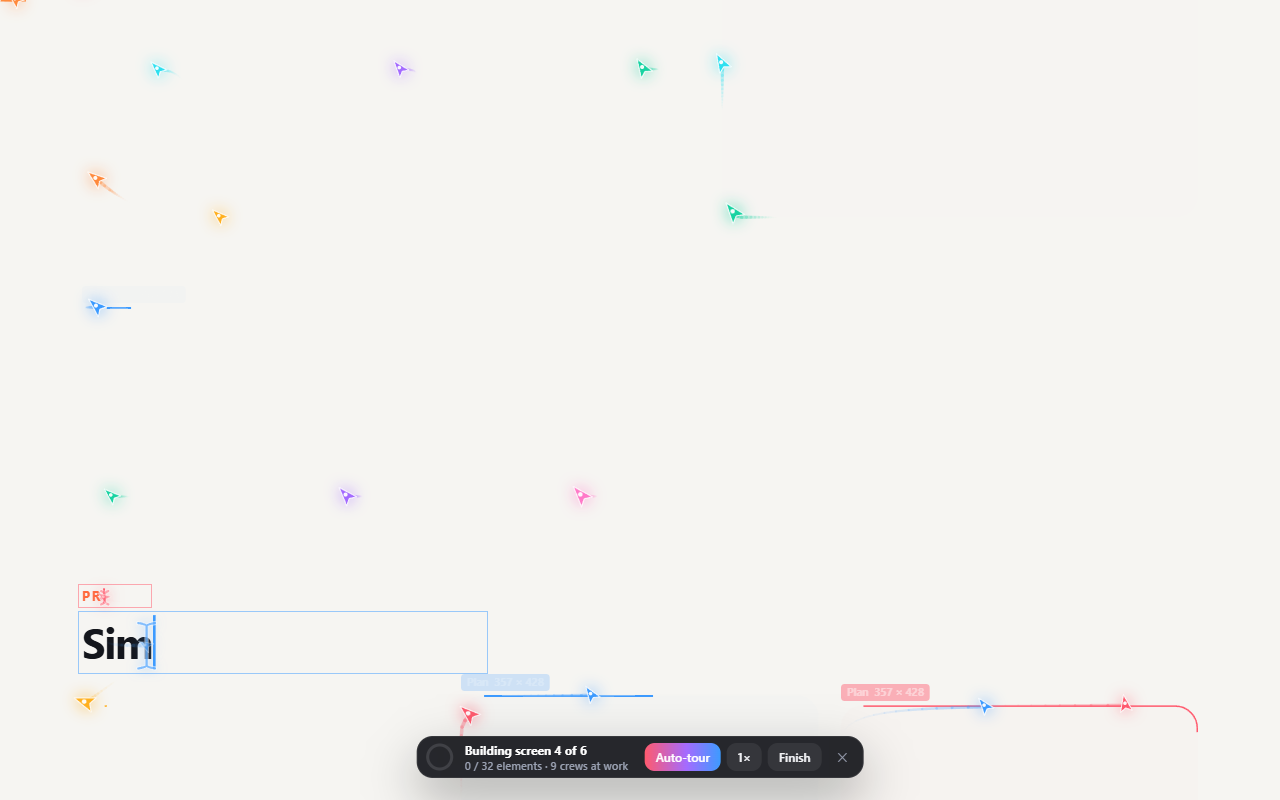
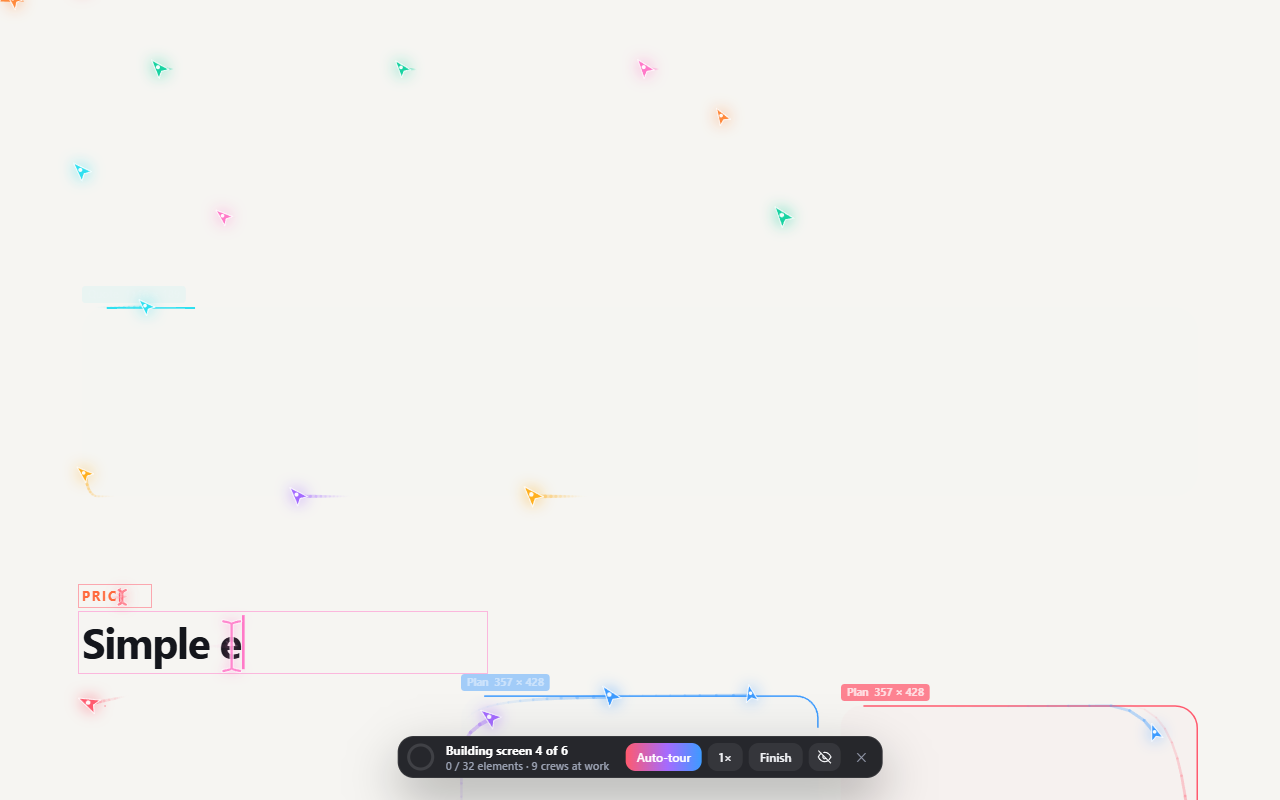
Hide or move the controls for clean recordings; fix hidden text while typing
- H (or the new eye button) hides the control bar; H brings it back. A short
  hint says so. Drag the bar anywhere; double-click it to put it back. Both
  carry over to Replay for that tab (memory only, nothing stored)
- Fix: a wrapper with a line of its own text clipped its block children while
  typing, so headings and paragraphs inside it stayed invisible
- Fix: with tight line-height, the next line's letters no longer peek through
- Docs, listing, store graphics and package updated

diff --git a/extension/swarmline.js b/extension/swarmline.js
@@ -26,6 +26,8 @@
   const SANS = 'Inter, ui-sans-serif, system-ui, -apple-system, "Segoe UI", Roboto, sans-serif';
   const MAX_UNITS = 3000;
   const CHAR_BUDGET = 9000; // exact letter positions per scan; past that they're estimated
+  // toolbar placement for this tab only: kept in memory, never stored
+  const prefs = { hudHidden: false, hudPos: null };
   const PALETTE = ["#FF5A6E", "#FFB020", "#19D3A2", "#3D9BFF", "#A46BFF", "#FF7AC8", "#2FE0F0", "#FF8A3D"];
 
   const SKIP = new Set([
@@ -409,8 +411,20 @@
                 // how to type it: clip the element to the letters so far, unless the
                 // element paints its own box (a button) - then reveal by colour
                 const mode = boxUnit && boxUnit.el === el ? "fade" : "clip";
+                // block children (a heading inside a wrapper that also has a line of its
+                // own text) stay outside the typing clip: they appear on their own schedule
+                const keep = [];
+                if (mode === "clip") {
+                  for (const c of el.children) {
+                    if (SKIP.has(c.localName)) continue;
+                    const d2 = cs(c).display;
+                    if (d2 === "none" || isInlineLevel(d2)) continue;
+                    const q = c.getBoundingClientRect();
+                    if (q.width >= 1 && q.height >= 1) keep.push({ x: q.left - r.left - 2, y: q.top - r.top - 2, w: q.width + 4, h: q.height + 4 });
+                  }
+                }
                 make(el, "text", r, s, boxUnit || parent, isFixed, {
-                  lines: t.lines, flow: t.flow, total: t.total, mode, fs: parseFloat(s.fontSize) || 16,
+                  lines: t.lines, flow: t.flow, total: t.total, mode, keep, fs: parseFloat(s.fontSize) || 16,
                   ink: s.color, caretColor: s.color,
                 });
                 madeText = true;
@@ -491,6 +505,17 @@ canvas.off{pointer-events:none}
 .hud button.pri{background:linear-gradient(90deg,#FF5A6E,#A46BFF 55%,#3D9BFF);color:#fff;font-weight:650}
 .hud button[hidden]{display:none}
 .hud .x{padding:8px 10px;color:#9CA3B4;background:transparent}
+.hud{cursor:grab;touch-action:none}
+.hud.dragging{cursor:grabbing;transition:opacity .45s ease}
+.hud.placed{bottom:auto;transform:translate(0,14px)}
+.hud.placed.on{transform:none}
+.hud.on.gone{opacity:0;pointer-events:none;transform:translate(-50%,14px)}
+.hud.placed.on.gone{transform:translate(0,14px)}
+.hud .ico{display:inline-flex;align-items:center;justify-content:center;padding:6px 8px}
+.hud .ico svg{width:16px;height:16px;fill:none;stroke:currentColor;stroke-width:1.8;stroke-linecap:round;stroke-linejoin:round}
+.toast{position:fixed;left:50%;bottom:26px;transform:translate(-50%,10px);padding:9px 14px;border-radius:12px;background:rgba(16,17,22,.86);color:#F4F5F8;font:500 12px/1.2 ${SANS};box-shadow:0 14px 36px rgba(0,0,0,.28);opacity:0;pointer-events:none;transition:opacity .35s ease,transform .35s ease;white-space:nowrap}
+.toast.on{opacity:1;transform:translate(-50%,0)}
+.toast kbd{font:650 11px/1 ${SANS};padding:3px 6px;border-radius:6px;background:rgba(255,255,255,.14);margin:0 2px}
 `;
 
   // ------------------------------------------------------------------------- app
@@ -557,8 +582,10 @@ canvas.off{pointer-events:none}
   <button data-a="speed" title="Build speed" aria-label="Build speed 1×">1×</button>
   <button data-a="finish" title="Show the finished page now (F)">Finish</button>
   <button data-a="replay" class="pri" hidden title="Build the page again">Replay</button>
+  <button data-a="hide" class="ico" title="Hide the controls for a clean recording (H) · drag the bar to move it" aria-label="Hide controls"><svg viewBox="0 0 24 24" aria-hidden="true"><path d="M3 3l18 18"/><path d="M10.6 5.1A10.5 10.5 0 0 1 12 5c6 0 9.5 7 9.5 7a17 17 0 0 1-3.2 4.1M6.6 6.6C3.9 8.4 2.5 12 2.5 12s3.5 7 9.5 7a9.6 9.6 0 0 0 5.4-1.6"/><path d="M9.9 9.9a3 3 0 0 0 4.2 4.2"/></svg></button>
   <button data-a="close" class="x" title="Exit (Esc)" aria-label="Exit Swarmline">✕</button>
-</div>`;
+</div>
+<div class="toast" role="status"></div>`;
       document.documentElement.appendChild(host);
       this.host = host;
       this.root = root;
@@ -567,7 +594,48 @@ canvas.off{pointer-events:none}
       this.hud = root.querySelector(".hud");
       this.$ = (s) => root.querySelector(s);
       this.$('[data-a="speed"]').textContent = this.speed + "×";
+      this.toast = root.querySelector(".toast");
       this.resize();
+      if (prefs.hudPos) this.placeHud(prefs.hudPos.x, prefs.hudPos.y);
+      if (prefs.hudHidden) this.hud.classList.add("gone");
+    }
+
+    // ---------------------------------------------------------------- toolbar
+
+    // hide or show the controls (H), e.g. for a clean screen recording
+    setHud(show, quiet) {
+      prefs.hudHidden = !show;
+      this.hud.classList.toggle("gone", !show);
+      if (!show && !quiet) this.say("Controls hidden · press <kbd>H</kbd> to bring them back");
+    }
+
+    say(html, ms = 2200) {
+      const t = this.toast;
+      t.innerHTML = html;
+      t.classList.add("on");
+      clearTimeout(this._toastT);
+      this._toastT = setTimeout(() => t.classList.remove("on"), ms);
+    }
+
+    // put the bar at a spot on screen (kept inside the window)
+    placeHud(x, y) {
+      const h = this.hud;
+      const w = h.offsetWidth || 560;
+      const ht = h.offsetHeight || 44;
+      const px = clamp(x, 8, Math.max(8, innerWidth - w - 8));
+      const py = clamp(y, 8, Math.max(8, innerHeight - ht - 8));
+      h.classList.add("placed");
+      h.style.left = px + "px";
+      h.style.top = py + "px";
+      prefs.hudPos = { x: px, y: py };
+    }
+
+    resetHud() {
+      const h = this.hud;
+      h.classList.remove("placed");
+      h.style.left = "";
+      h.style.top = "";
+      prefs.hudPos = null;
     }
 
     resize() {
@@ -584,7 +652,10 @@ canvas.off{pointer-events:none}
         t.addEventListener(ev, fn, o);
         (this.unbinds || (this.unbinds = [])).push(() => t.removeEventListener(ev, fn, o));
       };
-      on(window, "resize", () => this.resize());
+      on(window, "resize", () => {
+        this.resize();
+        if (prefs.hudPos) this.placeHud(prefs.hudPos.x, prefs.hudPos.y);
+      });
       on(window, "pagehide", () => stop(true));
       on(window, "wheel", () => {
         if (this.jump) this.jump = null; // the reader took over
@@ -604,12 +675,37 @@ canvas.off{pointer-events:none}
           stop();
         } else if ((e.key === "t" || e.key === "T") && !e.ctrlKey && !e.metaKey && !e.altKey && !this.outro) this.setTour(!this.tour);
         else if ((e.key === "f" || e.key === "F") && !e.ctrlKey && !e.metaKey && !e.altKey) this.finish();
+        else if ((e.key === "h" || e.key === "H") && !e.ctrlKey && !e.metaKey && !e.altKey) this.setHud(prefs.hudHidden);
       }, true);
+      // drag the bar anywhere (double-click puts it back at the bottom)
+      let drag = null;
+      on(this.hud, "pointerdown", (e) => {
+        if (e.button !== 0 || e.target.closest("button")) return;
+        const r = this.hud.getBoundingClientRect();
+        drag = { dx: e.clientX - r.left, dy: e.clientY - r.top, id: e.pointerId };
+        this.hud.setPointerCapture(e.pointerId);
+        this.hud.classList.add("dragging");
+        e.preventDefault();
+      });
+      on(this.hud, "pointermove", (e) => {
+        if (drag && e.pointerId === drag.id) this.placeHud(e.clientX - drag.dx, e.clientY - drag.dy);
+      });
+      const endDrag = (e) => {
+        if (!drag || e.pointerId !== drag.id) return;
+        drag = null;
+        this.hud.classList.remove("dragging");
+      };
+      on(this.hud, "pointerup", endDrag);
+      on(this.hud, "pointercancel", endDrag);
+      on(this.hud, "dblclick", (e) => {
+        if (!e.target.closest("button")) this.resetHud();
+      });
       on(this.hud, "click", (e) => {
         const b = e.target.closest("button");
         if (!b) return;
         const a = b.dataset.a;
         if (a === "close") stop();
+        else if (a === "hide") this.setHud(false);
         else if (a === "tour") this.setTour(!this.tour);
         else if (a === "finish") this.finish();
         else if (a === "replay") replay();
@@ -935,16 +1031,21 @@ canvas.off{pointer-events:none}
     typedPath(u, n) {
       let d = "";
       let left = n;
-      for (const L of u.lines) {
+      for (let i = 0; i < u.lines.length; i++) {
+        const L = u.lines[i];
         if (left <= 0) break;
         const k = Math.min(left, L.edges.length);
         left -= k;
         const x0 = Math.min(L.x, 0) - 4;
         const right = k >= L.edges.length ? L.x + L.w + 6 : L.edges[k - 1] + 0.5;
         const y0 = L.y - 3;
-        const h = L.h + 6;
+        let h = L.h + 6;
+        // tight line-height: stop halfway into the next line, so its letters don't peek through
+        const N = u.lines[i + 1];
+        if (N && N.y < L.y + L.h && N.x < L.x + L.w && N.x + N.w > L.x) h = Math.min(h, (L.y + L.h + N.y) / 2 - y0);
         d += `M${(x0).toFixed(1)} ${y0.toFixed(1)}H${right.toFixed(1)}V${(y0 + h).toFixed(1)}H${x0.toFixed(1)}Z`;
       }
+      for (const k of u.keep || []) d += `M${k.x.toFixed(1)} ${k.y.toFixed(1)}H${(k.x + k.w).toFixed(1)}V${(k.y + k.h).toFixed(1)}H${k.x.toFixed(1)}Z`;
       return d ? `path('${d}')` : "path('M0 0Z')";
     }
 

diff --git a/site/support.html b/site/support.html
@@ -24,12 +24,12 @@
   <ol class="steps">
     <li><b>Install</b> Swarmline from the Chrome Web Store, then pin it from the puzzle-piece menu next to the address bar.</li>
     <li><b>Open any website</b> and click the Swarmline icon (or press <kbd>Alt</kbd> + <kbd>Shift</kbd> + <kbd>L</kbd>).</li>
-    <li><b>Watch, tour, finish:</b> Auto-tour is on by default and <kbd>T</kbd> toggles it, <kbd>F</kbd> shows the finished page, <kbd>Esc</kbd> exits.</li>
+    <li><b>Watch, tour, finish:</b> Auto-tour is on by default and <kbd>T</kbd> toggles it, <kbd>F</kbd> shows the finished page, <kbd>H</kbd> hides or shows the controls, <kbd>Esc</kbd> exits. Drag the control bar to move it; double-click it to put it back.</li>
   </ol>
 
   <h2>Common questions</h2>
   <details><summary>The icon shows a red × and nothing happens</summary><p>Chrome doesn't let any extension run on its own pages (<code>chrome://</code> pages, the Chrome Web Store) or inside the built-in PDF viewer. Open a normal website and try again.</p></details>
-  <details><summary>How do I record a video of it?</summary><p>Use any screen recorder (Windows: <kbd>Win</kbd> + <kbd>Alt</kbd> + <kbd>R</kbd>, or the Snipping Tool's record mode; macOS: <kbd>Shift</kbd> + <kbd>Cmd</kbd> + <kbd>5</kbd>). Start Swarmline (Auto-tour is already on) and pick 2× for a snappy reel or 1× for a calm walkthrough.</p></details>
+  <details><summary>How do I record a video of it?</summary><p>Use any screen recorder (Windows: <kbd>Win</kbd> + <kbd>Alt</kbd> + <kbd>R</kbd>, or the Snipping Tool's record mode; macOS: <kbd>Shift</kbd> + <kbd>Cmd</kbd> + <kbd>5</kbd>). Start Swarmline (Auto-tour is already on), press <kbd>H</kbd> to hide the controls (or drag them to a corner), and pick 2× for a snappy reel or 1× for a calm walkthrough. Press <kbd>H</kbd> again to bring the controls back.</p></details>
   <details><summary>Can I click the page while it's being built?</summary><p>Not while it's building, so you can't hit a link you can't see yet. You can still scroll, and the swarm builds whatever comes to rest on screen. As soon as it finishes (or you press Finish), the page is fully interactive.</p></details>
   <details><summary>Does it change or save the website?</summary><p>No. Swarmline only hides and re-shows parts of the page in your own browser tab for the animation. Nothing is saved, nothing is sent anywhere, and when it ends or you exit, the page is exactly as it was. Reloading the page also clears it completely.</p></details>
   <details><summary>Some part of a page didn't animate, it just appeared</summary><p>Decorative backgrounds and very small details come in with the end-of-screen sweep rather than being built one by one, and content you scroll past quickly simply appears. On very large pages (thousands of elements), the far end is built in bigger pieces.</p></details>

diff --git a/site/index.html b/site/index.html
@@ -41,7 +41,7 @@
       <div class="card"><div class="dot" style="background:var(--coral)"></div><h3>Boxes traced live</h3><p>Crews trace every card and section with a live size readout, then it fills in for real.</p></div>
       <div class="card"><div class="dot" style="background:var(--violet)"></div><h3>Text typed by hand</h3><p>Headlines and paragraphs are typed letter by letter with a blinking caret.</p></div>
       <div class="card"><div class="dot" style="background:var(--blue)"></div><h3>Images scanned in</h3><p>Photos, video and canvases scan into place with the swarm riding the scan line.</p></div>
-      <div class="card"><div class="dot" style="background:var(--mint)"></div><h3>Auto-tour</h3><p>Glide down the page screen by screen, each one centred before it's built. Perfect for recordings.</p></div>
+      <div class="card"><div class="dot" style="background:var(--mint)"></div><h3>Made for recording</h3><p>Auto-tour glides down the page screen by screen. Hide the controls with <kbd>H</kbd> or drag them anywhere for a clean take.</p></div>
       <div class="card"><div class="dot" style="background:var(--amber)"></div><h3>Any website</h3><p>Works with modern sites: sticky headers, scroll animations, video, app-style layouts.</p></div>
       <div class="card"><div class="dot" style="background:linear-gradient(135deg,var(--coral),var(--blue))"></div><h3>Private by design</h3><p>Runs only on the tab you start it on. Sends nothing, stores nothing, leaves the page exactly as it was.</p></div>
     </div>
@@ -65,7 +65,7 @@
     <ol class="steps">
       <li><b>Add Swarmline to Chrome</b> from the Chrome Web Store and pin it from the puzzle-piece menu.</li>
       <li><b>Open any website</b> and click the Swarmline icon, or press <kbd>Alt</kbd> + <kbd>Shift</kbd> + <kbd>L</kbd>.</li>
-      <li><b>Sit back:</b> Auto-tour glides through the whole page on its own (<kbd>T</kbd> turns it off so you can scroll yourself). Pick <b>1× / 2× / 3×</b> speed, and hit <b>Finish</b> (<kbd>F</kbd>) any time. <kbd>Esc</kbd> exits.</li>
+      <li><b>Sit back:</b> Auto-tour glides through the whole page on its own (<kbd>T</kbd> turns it off so you can scroll yourself). Pick <b>1× / 2× / 3×</b> speed, and hit <b>Finish</b> (<kbd>F</kbd>) any time. Recording? Press <kbd>H</kbd> to hide the controls, or drag them out of the way. <kbd>Esc</kbd> exits.</li>
     </ol>
   </div></section>
 </main>

diff --git a/README.md b/README.md
@@ -24,6 +24,8 @@ Everything appears in place on the real page, so the result is always exactly th
 | **Auto-tour** / **T** | Glide through the page screen by screen (on by default; T turns it off) |
 | **1× / 2× / 3×** | Build speed |
 | **Finish** / **F** | Show the finished page now |
+| **H** / eye button | Hide the controls for a clean screen recording (H brings them back) |
+| Drag the bar | Move the controls anywhere; double-click the bar to put it back |
 | **Esc** / **✕** | Exit (the page is restored exactly) |
 
 Turn the tour off to scroll yourself: the swarm builds whatever comes to rest on screen. With *prefers-reduced-motion* it builds at 3× with a smaller swarm, and the tour jumps instead of gliding.

diff --git a/store/LISTING.md b/store/LISTING.md
@@ -46,7 +46,7 @@ Great for:
 
 Private by design: Swarmline runs only on the tab you start it on, sends nothing anywhere and stores nothing. When you exit, the page is exactly as it was.
 
-Shortcuts: Alt+Shift+L start or stop · T auto-tour · F finish · Esc exit.
+Shortcuts: Alt+Shift+L start or stop · T auto-tour · F finish · H hide or show the controls (for clean recordings) · Esc exit. Drag the control bar to move it anywhere.
 ```
 
 ### Graphic assets (all in `store/`)
